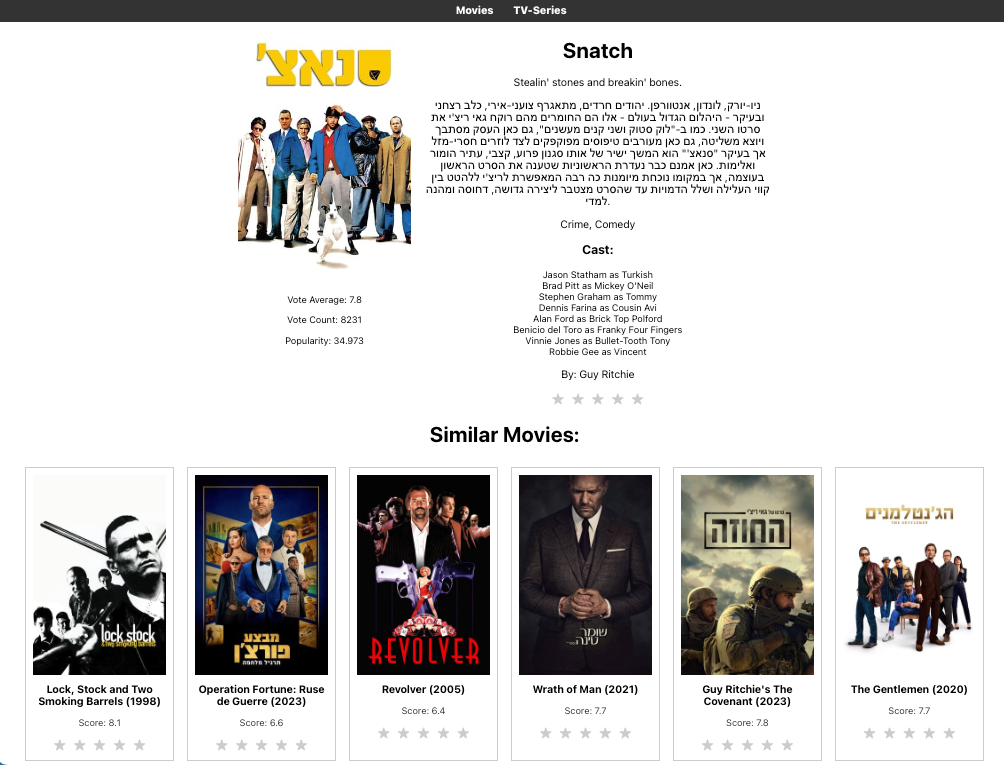
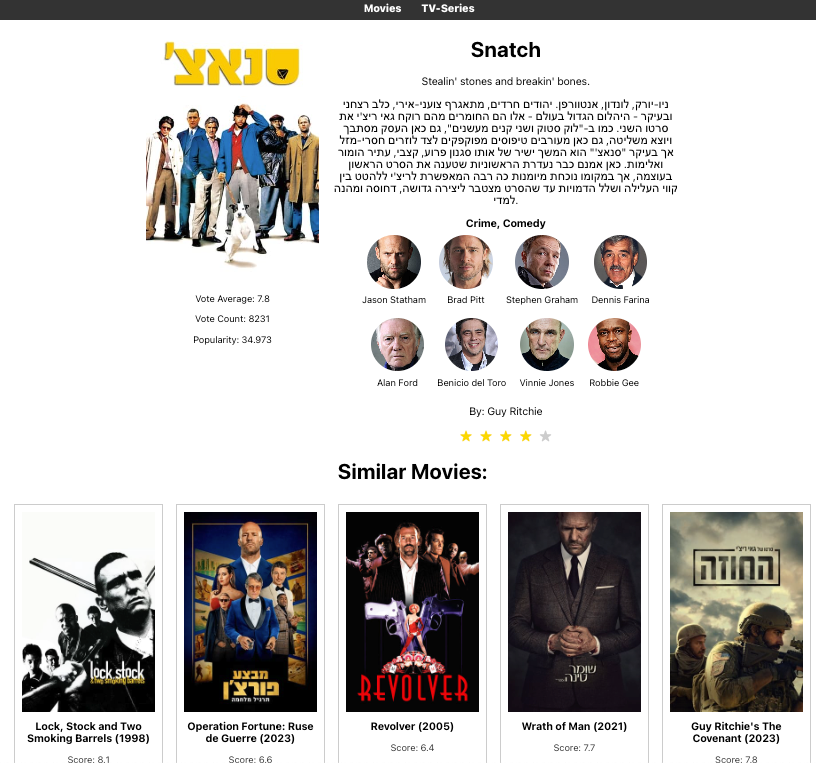
show cast photos

diff --git a/frontend/src/components/MoviePage.js b/frontend/src/components/MoviePage.js
@@ -23,7 +23,11 @@ const MoviePage = ({mediaType}) => {
     <div>
       <div className="movie-page">
         <div className="movie-left">
-          <TmdbImage path={movie.poster_path} alt={movie.title} className="movie-image"/>
+          <TmdbImage
+            path={movie.poster_path}
+            alt={movie.title}
+            className="movie-image"
+          />
           <div className="movie-votes">
             <p>Vote Average: {movie.vote_average}</p>
             <p>Vote Count: {movie.vote_count}</p>
@@ -36,19 +40,25 @@ const MoviePage = ({mediaType}) => {
           <h1>{movie.title || movie.name}</h1>
           <p className="movie-tagline">{movie.tagline}</p>
           <p className="movie-overview">{movie.overview_he}</p>
-          <div className="movie-genres">
-            {movie.genres.join(', ')}
-          </div>
+          <div className="movie-genres">{movie.genres.join(", ")}</div>
           <div className="movie-cast">
-            <h3>Cast:</h3>
-            {movie.cast.map((castMember) => (
-              <p key={castMember.name}>
-                {castMember.name} as {castMember.character}
-              </p>
-            ))}
+            <div className="cast-gallery">
+              {movie.cast.map((castMember) => (
+                <div className="cast-member" key={castMember.name}>
+                  <TmdbImage
+                    path={castMember.profile_path}
+                    alt={castMember.name}
+                    className="cast-profile-image"
+                  />
+                  <p>{castMember.name}</p>
+                </div>
+              ))}
+            </div>
           </div>
-          <p className="movie-director">By: {movie.director || movie.creators.join(", ")}</p>
-          <Vote movieId={movie.id}/>
+          <p className="movie-director">
+            By: {movie.director || movie.creators.join(", ")}
+          </p>
+          <Vote movieId={movie.id} />
         </div>
       </div>
       <SimilarMoviesList movieId={movieId} mediaType={mediaType} />

diff --git a/frontend/src/components/MoviePage.css b/frontend/src/components/MoviePage.css
@@ -27,10 +27,33 @@ div.movie-popularity {
   margin: 10px 0;
 }
 
+.movie-genres {
+  font-weight: bold;
+}
+
 div.movie-cast p {
   font-size: 14px;
   margin: 5px 0;
   text-align: center;
   max-width: 800px;
   margin: 0 auto;
+}
+
+.movie-cast .cast-gallery {
+  display: flex;
+  flex-wrap: wrap;
+  justify-content: center;
+}
+
+.movie-cast .cast-member {
+  text-align: center;
+  margin: 10px;
+}
+
+.movie-cast .cast-profile-image {
+  width: 80px;
+  height: 80px;
+  border-radius: 50%;
+  object-fit: cover;
+  margin-bottom: 5px;
 }
